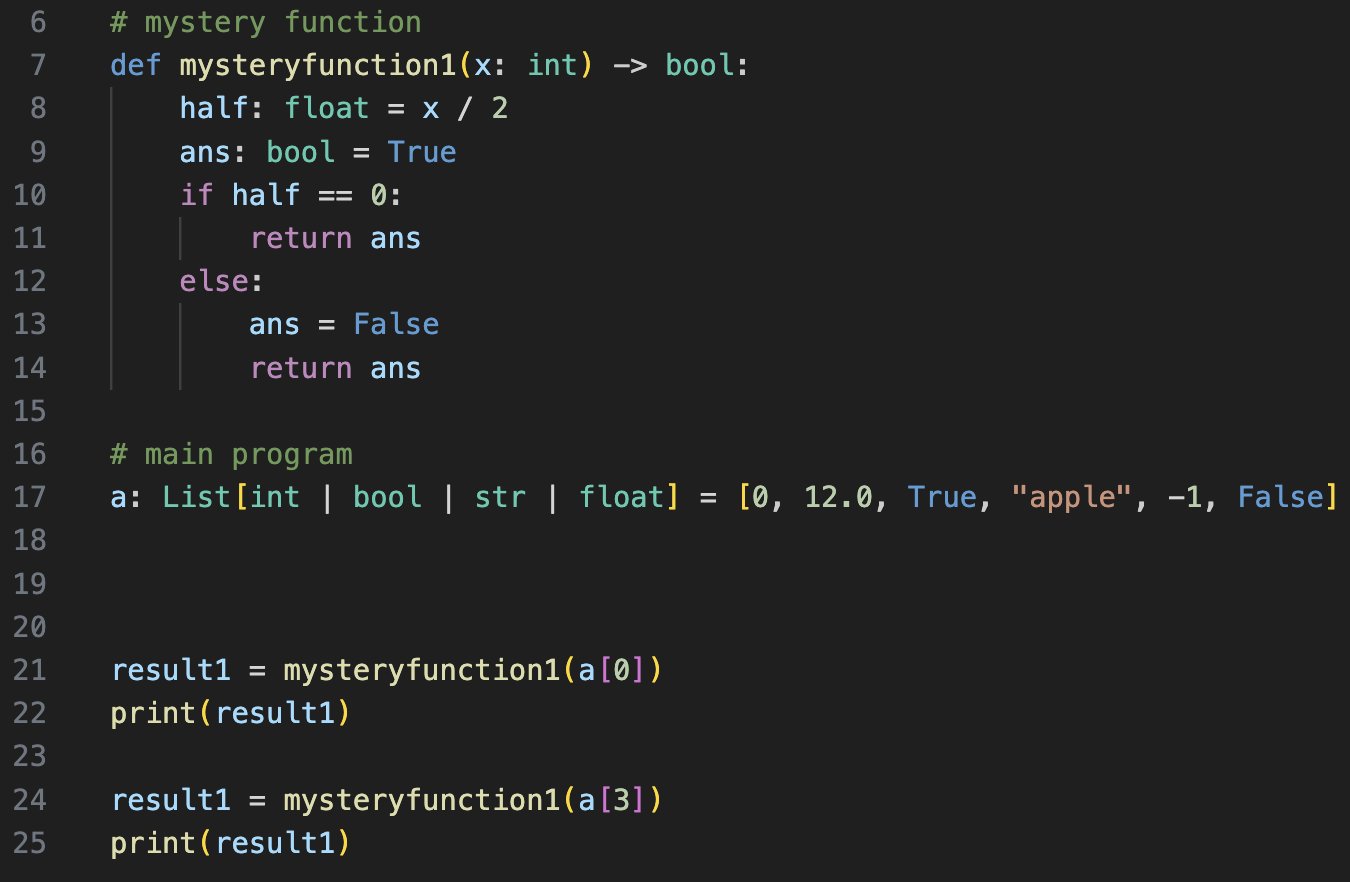
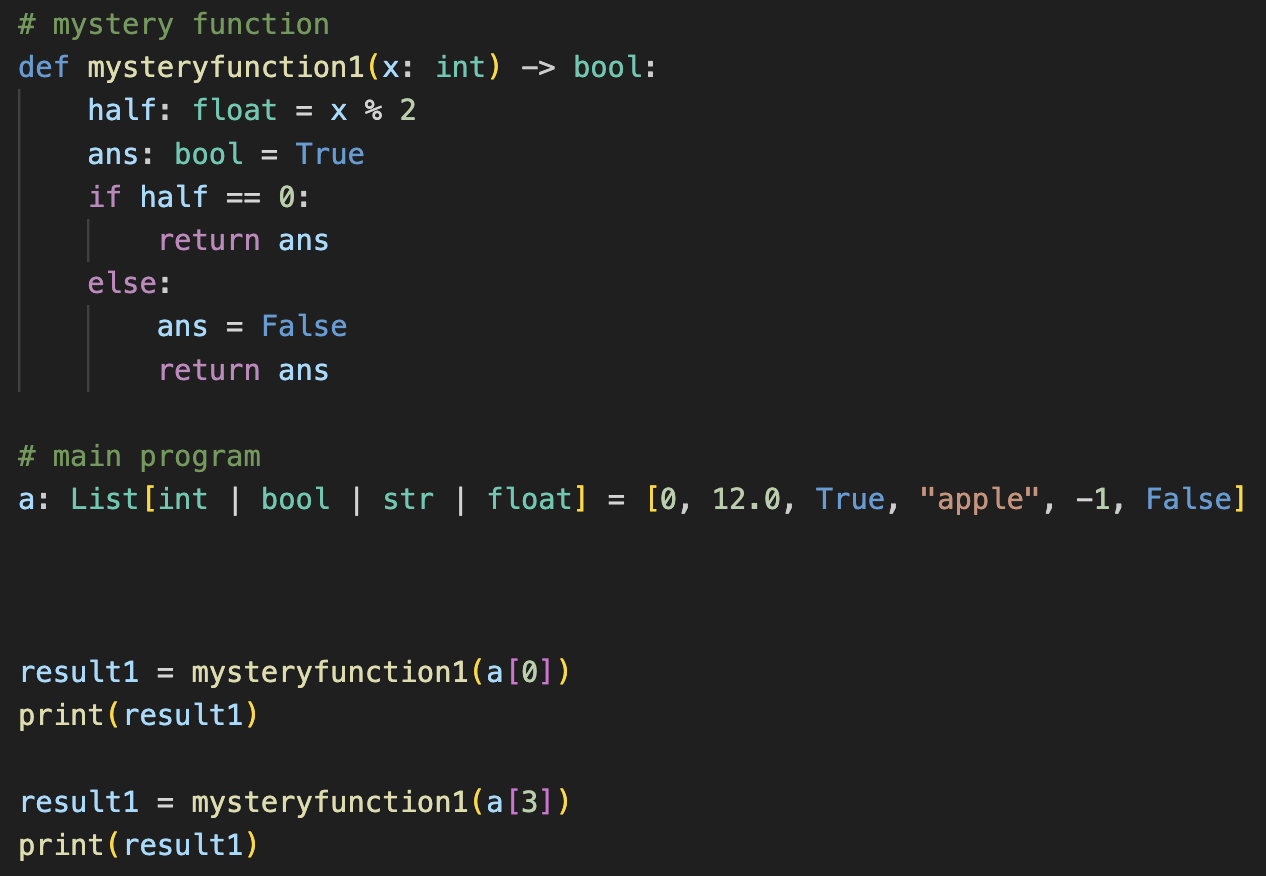
updated ss

diff --git a/task5typed.py b/task5typed.py
@@ -5,7 +5,7 @@ from typing import List, Union, Optional
 
 # mystery function
 def mysteryfunction1(x: int) -> bool:
-    half: float = x / 2
+    half: float = x % 2
     ans: bool = True
     if half == 0:
         return ans
